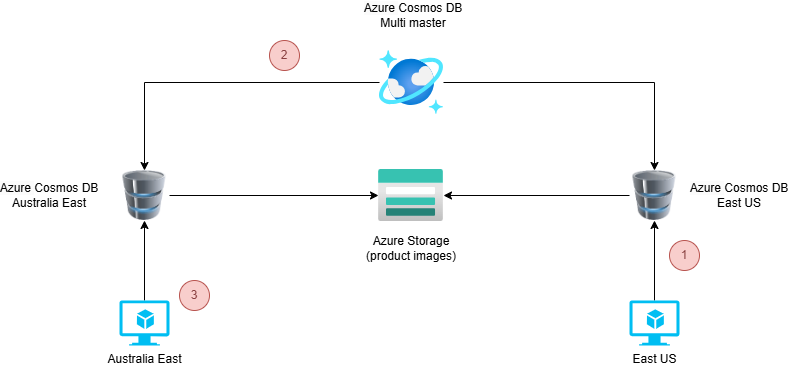
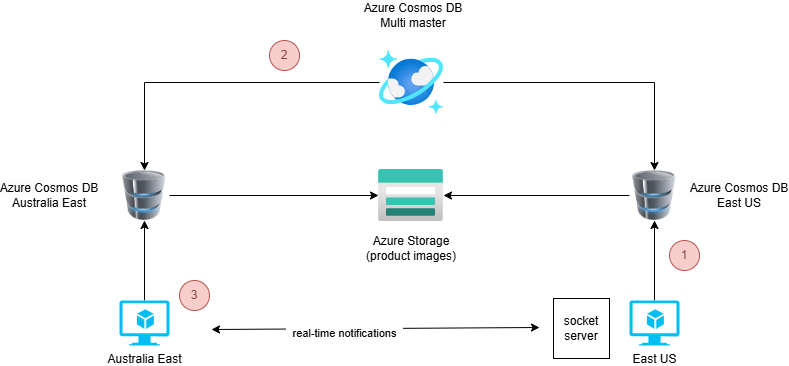
updated docs

diff --git a/README.md b/README.md
@@ -14,6 +14,7 @@ Products added to the shopping cart in the East US 2 region automatically appear
 - 2 virtual machines, one in East US 2, the other one in Australia East
 - An Azure Storage account to store product images
 - an Azure Cosmos DB NoSQL database that stores the product catalog
+- a socket server for real-time notifications
 
 ![Architecture Diagram](assets/architecture.png)
 
@@ -111,7 +112,6 @@ For more details, refer to the documentation: https://learn.microsoft.com/en-us/
 ![Storage - Encryption](assets/storage-encryption.png)
 
 ![Storage - Validation](assets/storage-validation.png)
-
 
 **Windows 11 Virtual machines creation**
 
@@ -257,10 +257,12 @@ $PrincipalId = "<principal-id>"   # id of the virtual machine in Entra ID
 - Select Access Control (IAM) in the menu
 
 ![Storage - Access Control](assets/storage-access-control.png)
+
 - Click on "Add role assignment"
 - In the filter textbox, type "Storage Blob Data Contributor"
 
 ![Storage - Blob Data contributor](assets/storage-blob-data-contributor.png)
+
 - Click on "Members"
 - Select "Managed Identity"
 - In the listbox, select "Virtual machines"
@@ -280,7 +282,6 @@ $PrincipalId = "<principal-id>"   # id of the virtual machine in Entra ID
 ![Storage - Upload files](assets/storage-upload-files.png)
 
 ![Storage - Files uploaded](assets/storage-files-uploaded.png)
-
 
 18. In order for the application in the Australia VM to read data from the closest Cosmos DB replica, we need to make a few changes, **on the "Australia East" virtual machine only**:
 
@@ -311,9 +312,11 @@ cd webapi
 dotnet build
 ```
 
-![Dotnet build](assets/dotnet_build.png)
+![Dotnet build](assets/dotnet_build.png) 18. On your secondary region VM (Australia East), modify the .env file with the IP address of the socket server in your primary region (East US 2)
 
-18. Build nextjs frontend project
+![socket_server_ip](assets/socket_server_ip.png)
+
+19. Build nextjs frontend project
 
 ```sh
 cd nextjs
@@ -354,6 +357,13 @@ In this section, we'll read the products catalog from the populate/cosmosDB/cata
 
 1. Start each VM
 2. Remote desktop into each VM
+3. On your primary region VM, start the socket server
+
+```sh
+cd socket
+npx ts-node src/server.ts
+```
+
 3. On each VM, start the back end and the front end projects
 
 - .NET webapi backend:
@@ -369,4 +379,4 @@ In this section, we'll read the products catalog from the populate/cosmosDB/cata
 2. Azure Cosmos DB automatically replicates data to the Cosmos DB Australia East replica
 3. On the "Australia East" VM, navigate to http://localhost:3000. You should now see one product in the shopping cart of the Australia East VM.
 
-![Demo](assets/demo.png)
+![Demo](assets/demo.gif)
